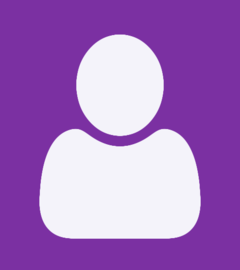
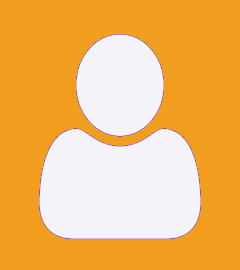
changed default user picture, made some other small fixes

diff --git a/app/controllers/application_controller.rb b/app/controllers/application_controller.rb
@@ -39,6 +39,9 @@ class ApplicationController < ActionController::Base
     elsif(exception.action.to_s == "show")
       exception.default_message = "You need to create a detailed user profile before joining an event."
       path = user_dashboard_path
+    elsif(exception.action.to_s == "new")
+      exception.default_message = "You must be registered for a sailing before hosting an event."
+      path = user_dashboard_path
     end
 
     redirect_to path, :alert => exception.message
